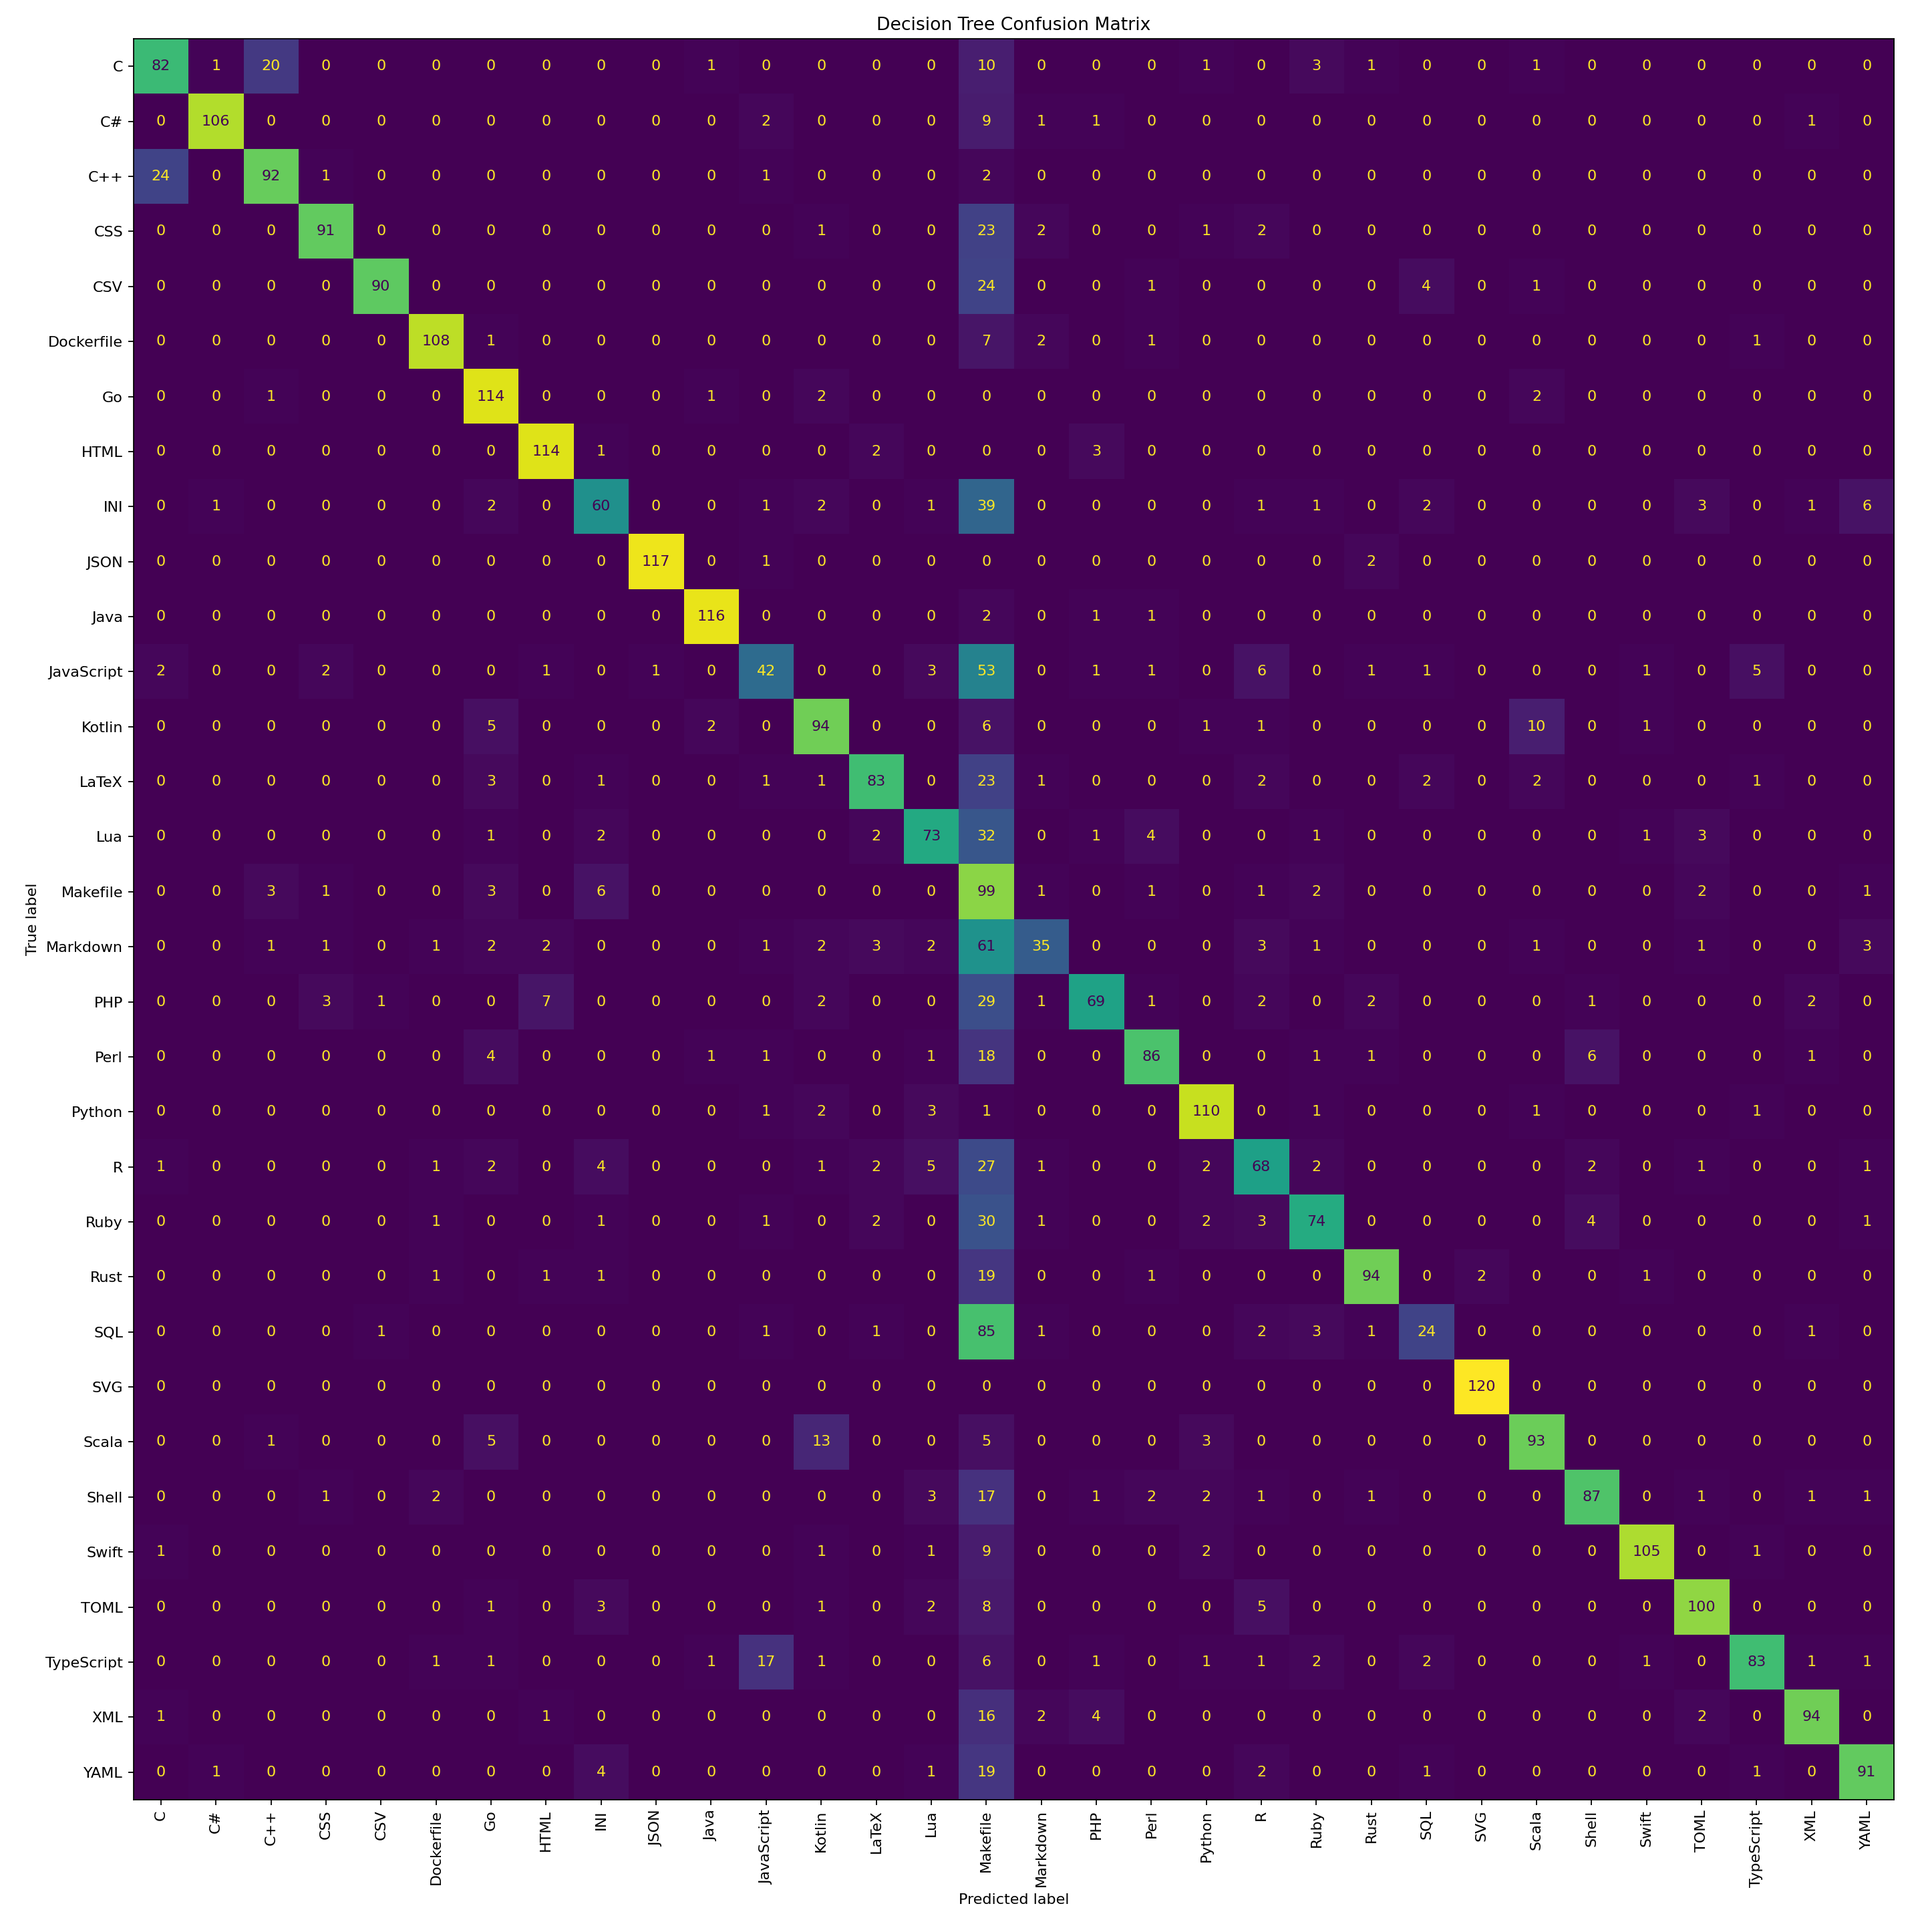
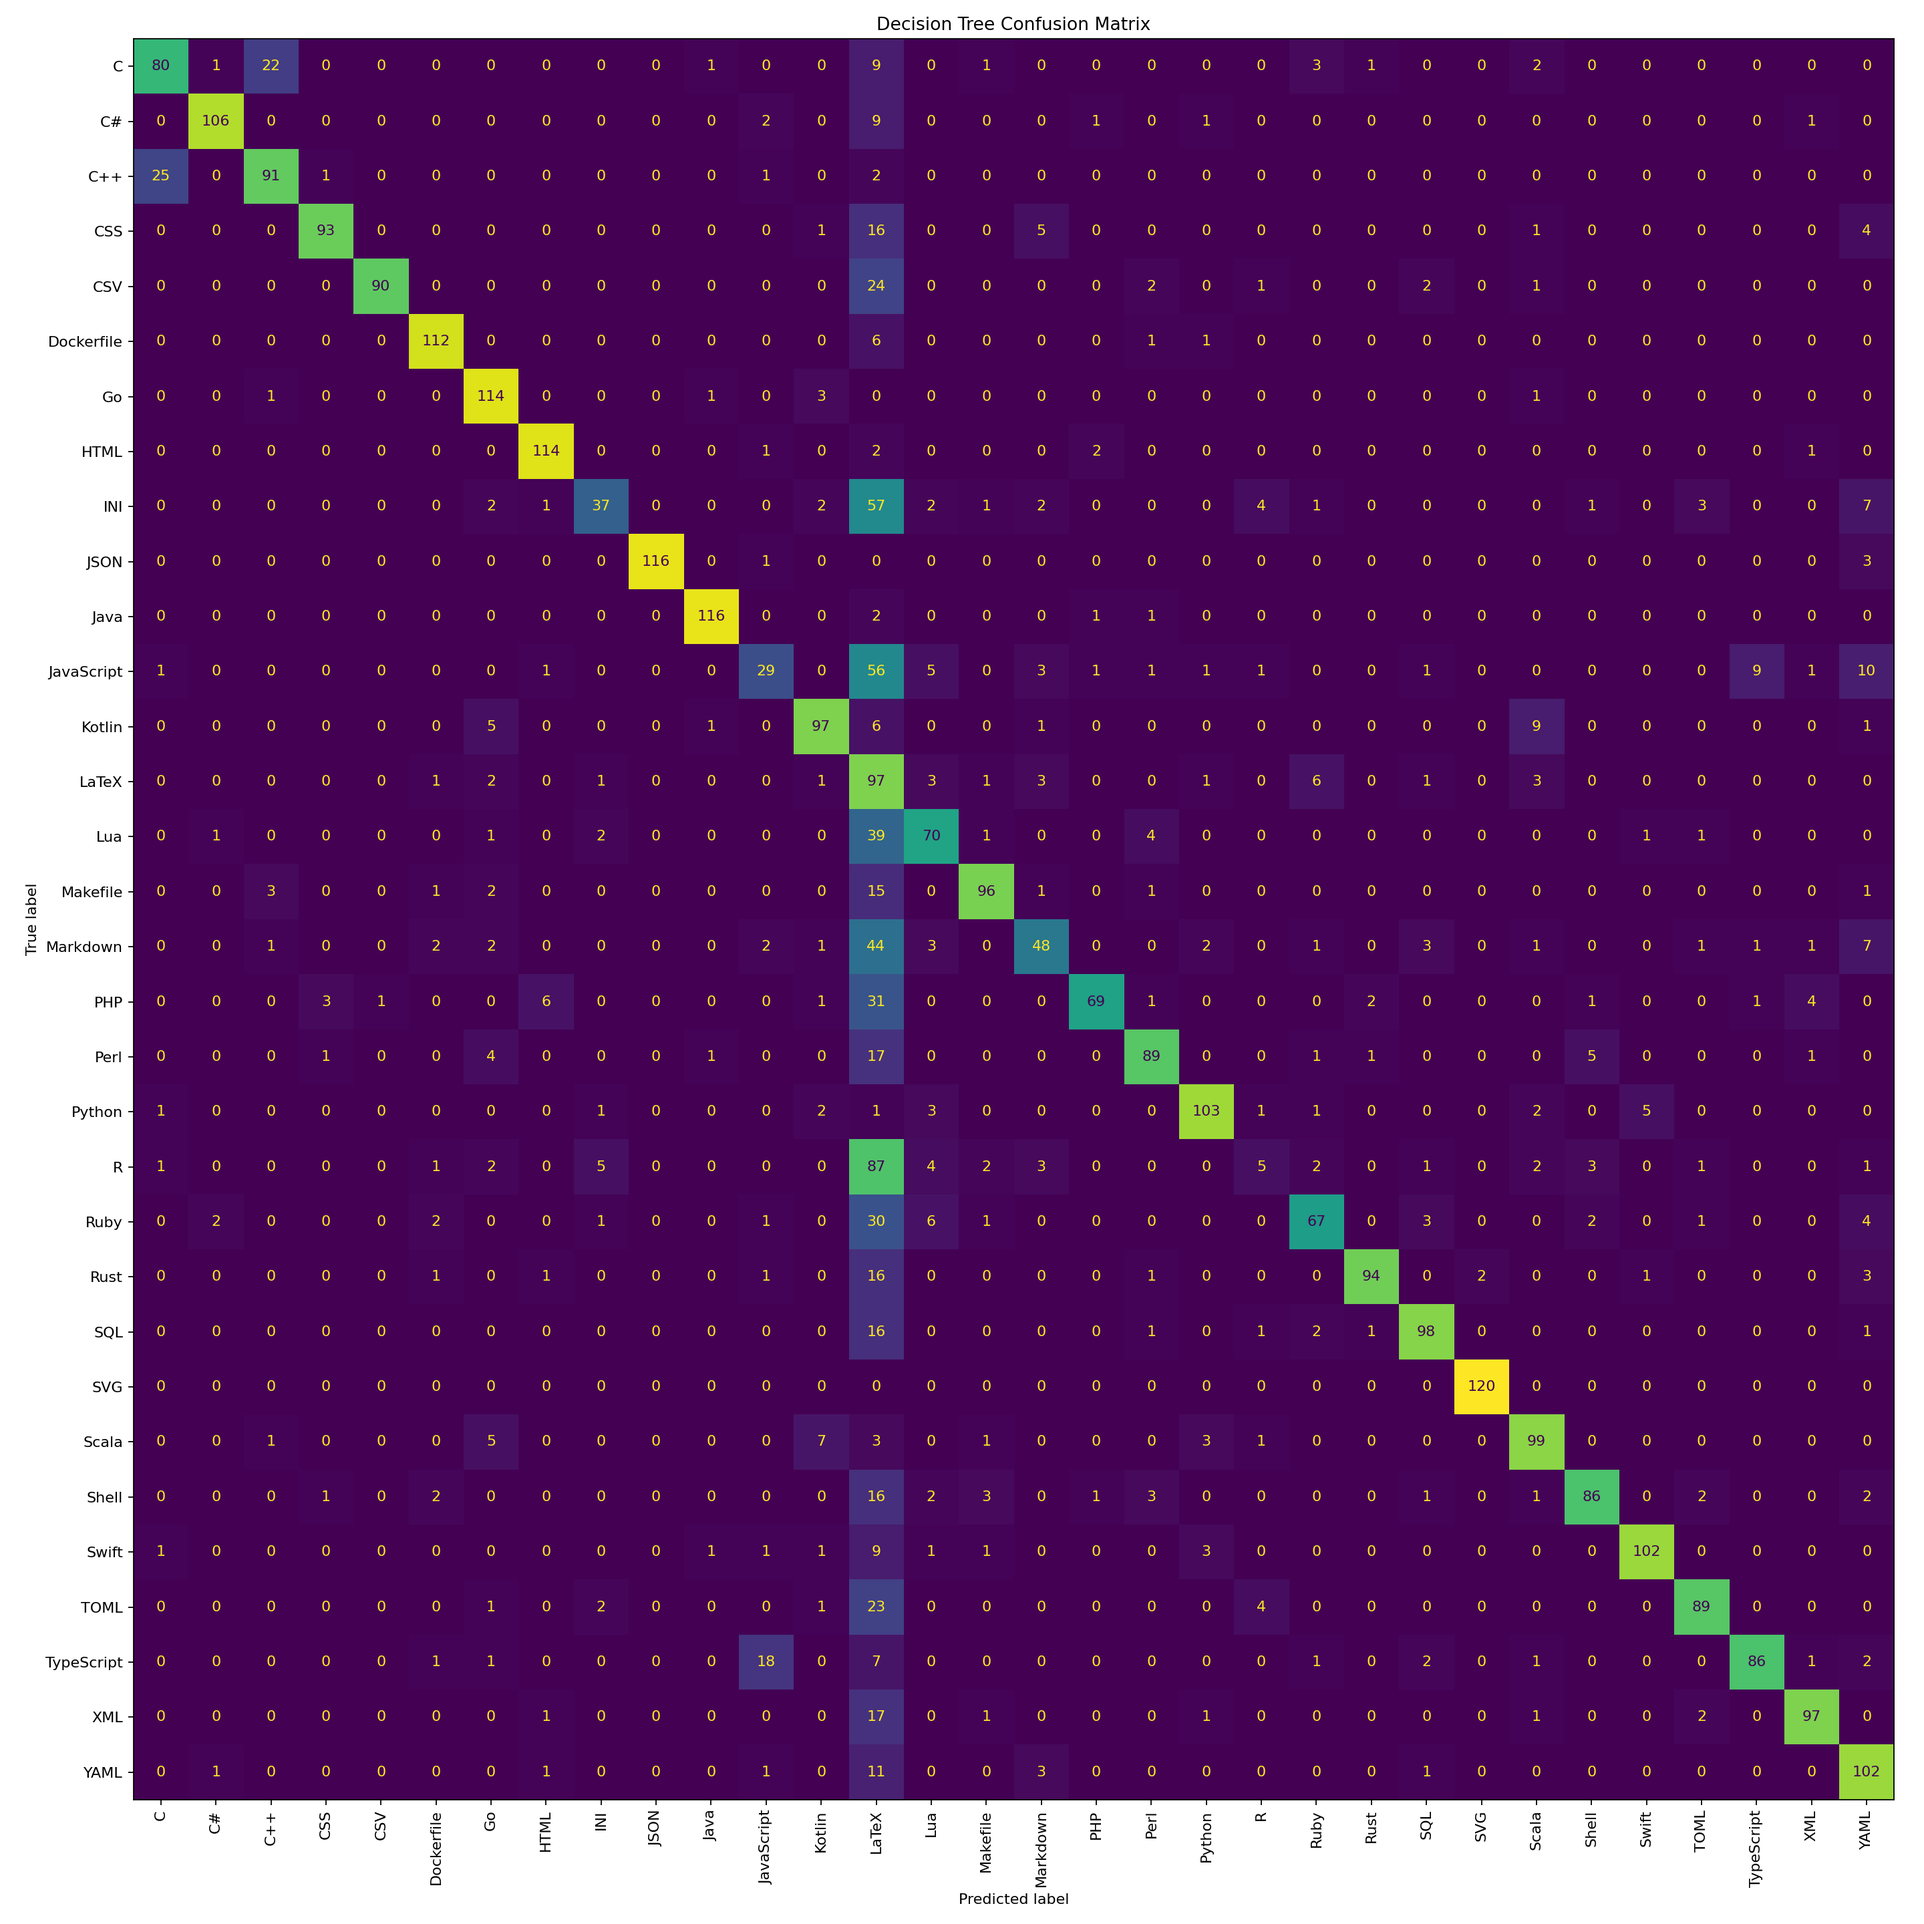
SP2: Update Decision Tree Classifier reports and feature extraction script; refine feature importance metrics, enhance makefile parsing, and add SQL/Markdown feature ratios

diff --git a/SP2-DecisionTreeClassifier/src/extract_features.py b/SP2-DecisionTreeClassifier/src/extract_features.py
@@ -30,7 +30,7 @@ KEYWORD_GROUPS = {
     "sql": ["select ", "from ", "where ", "insert into", "update ", "delete from", "create table", "join "],
     "shell": ["#!/bin/bash", "#!/bin/sh", "echo ", "export ", "fi", "then", "grep ", "awk ", "sed "],
     "dockerfile": ["from ", "run ", "copy ", "add ", "cmd ", "entrypoint ", "workdir ", "expose "],
-    "makefile": ["$(CC)", "$(CXX)", ".PHONY", "all:", "clean:", "$@", "$<", "\t"],
+    "makefile": ["$(CC)", "$(CXX)", ".PHONY", "all:", "clean:", "install:", "$@", "$<", "$(MAKE)", "Makefile"],
     "latex": ["\\documentclass", "\\begin{document}", "\\section", "\\usepackage", "\\end{document}", "\\cite", "\\ref"],
 }
 
@@ -171,7 +171,18 @@ def extract_features_from_text(text: str) -> Dict[str, float]:
 
     makefile_target_lines = sum(
         1 for line in non_empty_lines
-        if re.match(r"^[A-Za-z0-9_\-./]+:\s*", line)
+        if re.match(r"^[A-Za-z0-9_\-./]+:\s*($|[^/])", line)
+        and not re.match(r"^\s*[\w\-.\"']+\s*:\s+.+", line)
+    )
+
+    makefile_command_lines = sum(
+        1 for line in lines
+        if line.startswith("\t") and len(line.strip()) > 0
+    )
+
+    makefile_variable_lines = sum(
+        1 for line in non_empty_lines
+        if re.match(r"^[A-Za-z_][A-Za-z0-9_]*\s*[:?+]?=", line)
     )
 
     features = {
@@ -212,6 +223,8 @@ def extract_features_from_text(text: str) -> Dict[str, float]:
         "equal_key_value_ratio": safe_div(equal_key_value_lines, num_non_empty_lines),
         "csv_like_line_ratio": safe_div(csv_like_lines, min(num_non_empty_lines, 30)),
         "makefile_target_ratio": safe_div(makefile_target_lines, num_non_empty_lines),
+        "makefile_command_ratio": safe_div(makefile_command_lines, num_non_empty_lines),
+        "makefile_variable_ratio": safe_div(makefile_variable_lines, num_non_empty_lines),
 
         # Strong signatures
         "has_doctype": int("<!doctype" in lower),
@@ -238,6 +251,41 @@ def extract_features_from_text(text: str) -> Dict[str, float]:
         "has_public_word": int("public " in lower),
         "has_include": int("#include" in lower),
         "has_namespace": int("namespace " in lower),
+        
+        # Markdown
+        "markdown_heading_ratio": safe_div(
+            sum(1 for line in non_empty_lines if re.match(r"^\s{0,3}#{1,6}\s+", line)),
+            num_non_empty_lines
+        ),
+        "markdown_list_ratio": safe_div(
+            sum(1 for line in non_empty_lines if re.match(r"^\s*[-*+]\s+", line)),
+            num_non_empty_lines
+        ),
+        "markdown_code_fence_count": lower.count("```"),
+        "markdown_link_count": count_regex(r"\[[^\]]+\]\([^)]+\)", text),
+        
+        # SQL
+        "sql_statement_ratio": safe_div(
+            sum(
+                1 for line in non_empty_lines
+                if re.match(r"^\s*(select|insert|update|delete|create|alter|drop|with)\b", line.lower())
+            ),
+            num_non_empty_lines
+        ),
+        "sql_clause_count": count_regex(
+            r"\b(select|from|where|join|group by|order by|insert into|create table|primary key|foreign key)\b",
+            lower,
+        ),
+        
+        # JavaScript/TypeScript
+        "js_arrow_count": lower.count("=>"),
+        "js_console_count": lower.count("console."),
+        "js_require_count": lower.count("require("),
+        "js_export_count": lower.count("export "),
+        "js_import_from_count": count_regex(r"import\s+.+\s+from\s+['\"]", lower),
+        "ts_type_annotation_count": count_regex(r":\s*(string|number|boolean|any|unknown|void)\b", lower),
+        "ts_interface_count": count_regex(r"\binterface\s+\w+", lower),
+        "ts_type_alias_count": count_regex(r"\btype\s+\w+\s*=", lower),
     }
 
     # Keyword group counts/ratios
